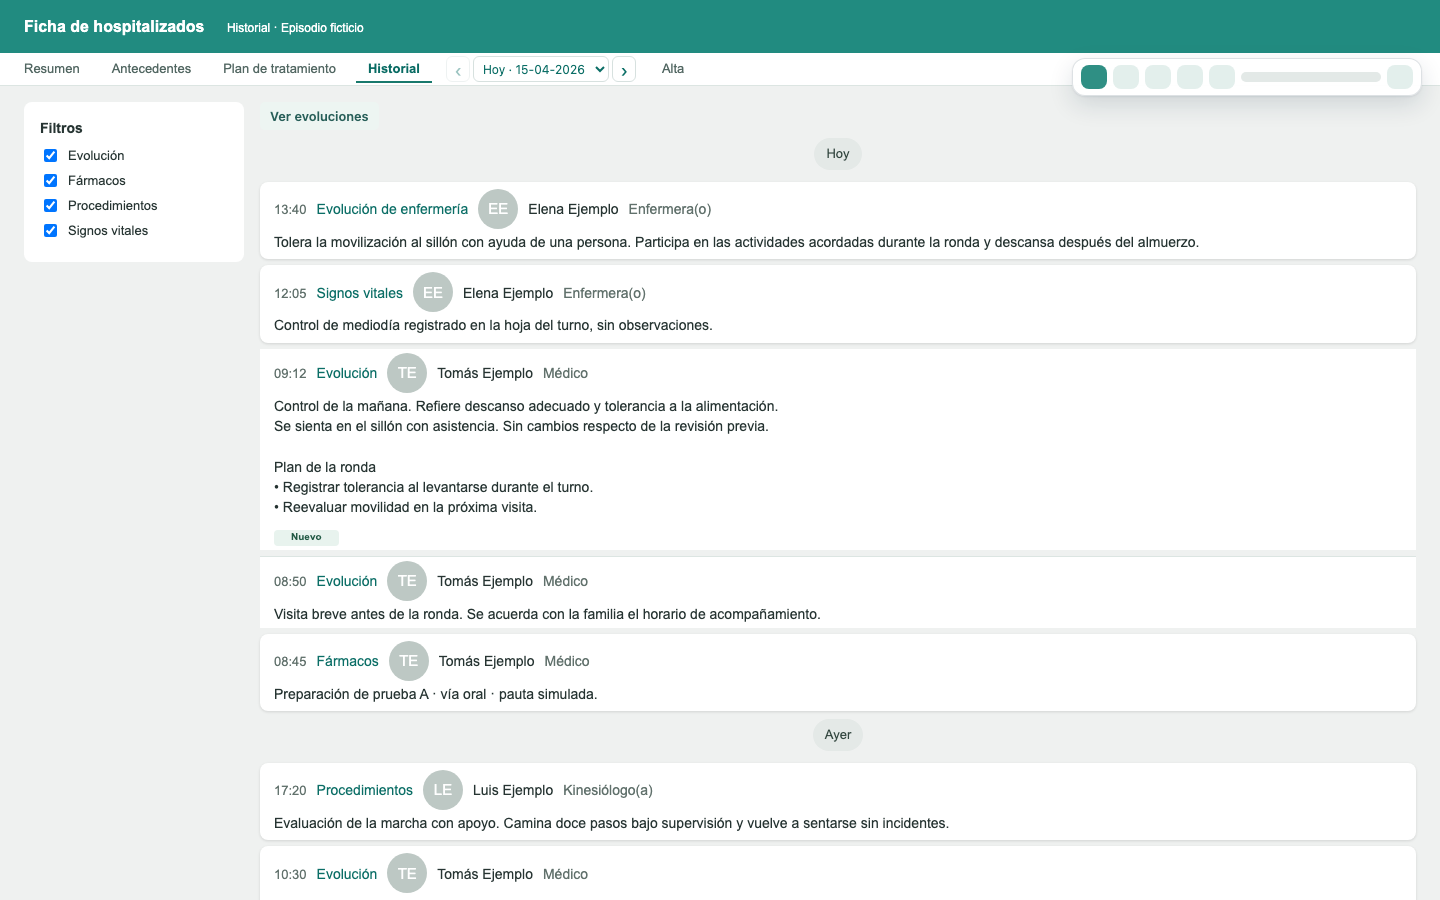
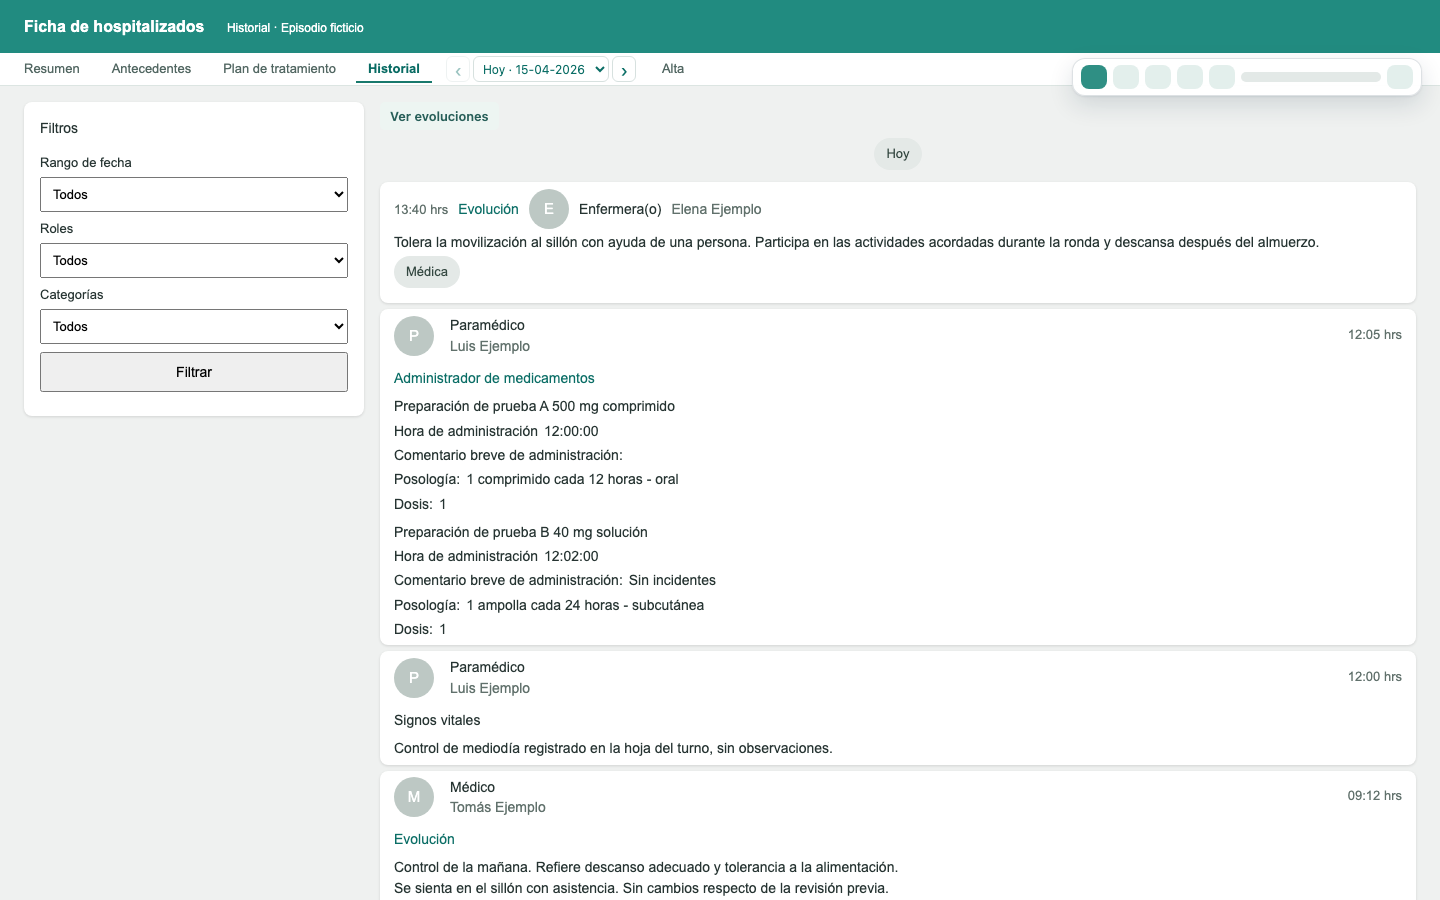
docs: compare the plan, the history and the daily row on real shapes
Before and after captures and measures for Plan de tratamiento, and
again for Historial and the Resumen with fixtures that follow the
structure seen in Eloísa. CI verifies the compact plan.

diff --git a/docs/estilo-ficha.md b/docs/estilo-ficha.md
@@ -1,6 +1,6 @@
 # Estilo y forma de trabajo en las vistas de la ficha
 
-Esta guía reúne las reglas con las que se rediseñaron el Resumen compacto y el Historial, para que la siguiente mejora empiece donde terminó la anterior.
+Esta guía reúne las reglas con las que se rediseñaron el Resumen compacto, el Historial y el Plan de tratamiento, para que la siguiente mejora empiece donde terminó la anterior. La forma de cada vista en la página real está en [`estructura-eloisa.md`](estructura-eloisa.md).
 
 ## Reglas de diseño
 
@@ -10,7 +10,7 @@ Esta guía reúne las reglas con las que se rediseñaron el Resumen compacto y e
 4. **El color tiene función.** Verde para lo que se puede pulsar, ámbar para una marca clínica, y el color que da Eloísa para un valor fuera de rango. La estructura usa grises.
 5. **Cuatro tamaños y dos pesos.** Meta (12 px), lectura (13 px), título (15 px) y título principal (16 px); normal y 600.
 6. **Un margen de lectura.** El título de una tarjeta, sus columnas y su primera celda empiezan en la misma línea (`--hhr-ficha-inset`).
-7. **Una acción es un icono de la familia y su nombre.** Sin sitio para el nombre queda el icono, con el nombre al pasar el cursor.
+7. **Una acción es un icono y su nombre, y el nombre es el de Eloísa.** Se lee del botón o de su icono; la extensión no inventa uno. Sin sitio para el nombre queda el icono, con el nombre al pasar el cursor. Un icono cuyo significado no consta, como los estados del Plan de tratamiento, conserva su dibujo y su color.
 8. **Lo que no se reconoce no se toca.** Una tarjeta, fila o botón con una forma distinta de la prevista conserva el aspecto de Eloísa.
 
 ## Dónde vive cada cosa
@@ -23,12 +23,15 @@ Esta guía reúne las reglas con las que se rediseñaron el Resumen compacto y e
 | [`hhr-ficha-evolution-authors.css`](../extension/hhr-ficha-evolution-authors.css) y [`.js`](../extension/hhr-ficha-evolution-authors.js) | Acciones de Evolución y filtro de evoluciones por profesional. |
 | [`hhr-ficha-reading-labels.css`](../extension/hhr-ficha-reading-labels.css) y [`.js`](../extension/hhr-ficha-reading-labels.js) | Firmas, campos de entrega y alerta, interruptores. |
 | [`hhr-ficha-history.css`](../extension/hhr-ficha-history.css) y [`hhr-history-date-navigation.js`](../extension/hhr-history-date-navigation.js) | Historial compacto y navegación por fechas. |
+| [`hhr-ficha-care-plan.css`](../extension/hhr-ficha-care-plan.css) y [`.js`](../extension/hhr-ficha-care-plan.js) | Tarjetas de programación de Plan de tratamiento. |
+
+Un lector nuevo sigue la forma de [`hhr-ficha-care-plan.js`](../extension/hhr-ficha-care-plan.js): `create()` devuelve `refresh(raíz)` y `clear()`, reconoce por estructura y texto nativo, lleva la cuenta de cada atributo que pone y lo retira cuando deja de aplicar. [`hhr-native-ficha-presentation.js`](../extension/hhr-native-ficha-presentation.js) lo crea y le pasa `main` solo en su pestaña y en la vista Compacta.
 
 Una regla nueva toma sus valores de los tokens. Una regla anterior, escrita con el color o el tamaño a mano, se pasa a tokens cuando se vuelve a editar; no hace falta una migración aparte.
 
 ## Cómo cambiar o añadir una vista
 
-1. **Ficha ficticia.** Cada vista tiene la suya en `scripts/*-visual-fixture.mjs`, con datos inventados y la estructura que el lector reconoce.
+1. **Ficha ficticia.** Cada vista tiene la suya en `scripts/*-visual-fixture.mjs`, con datos inventados y la estructura descrita en [`estructura-eloisa.md`](estructura-eloisa.md). Una ficha ficticia hecha de memoria ya ocultó tres fallos: se escribe a partir de la estructura observada.
 2. **Captura con el arnés común.** [`scripts/ficha-capture-harness.mjs`](../scripts/ficha-capture-harness.mjs) monta la ficha con los estilos y lectores que declara el manifiesto de una revisión o del árbol de trabajo. Así el «antes» y el «después» usan la misma página.
 3. **Comprobaciones como invariantes.** Lo que promete el diseño se mide en la página: alineaciones, orden de lectura, foco de teclado, que nada tape un control. Un fallo se explica con una frase, no con una diferencia de píxeles.
 4. **Prueba unitaria de marcas y limpieza.** Cada atributo que el lector pone debe retirarse al cambiar de vista, de episodio o de pestaña, y no reescribirse en un refresco idéntico.
@@ -39,6 +42,7 @@ Una regla nueva toma sus valores de los tokens. Una regla anterior, escrita con 
 node scripts/capture-medical-round.mjs WORKTREE /tmp/resumen lectura
 node scripts/capture-medical-round.mjs WORKTREE /tmp/ingreso ingreso
 node scripts/capture-history.mjs WORKTREE /tmp/historial
+node scripts/capture-care-plan.mjs WORKTREE /tmp/plan
 ```
 
 ## Calibrar con la página real
@@ -49,6 +53,6 @@ Las fichas ficticias reproducen lo que se sabe de Eloísa. Para una pantalla de 
 2. F12 → Consola. Pegar el archivo completo y pulsar Enter. Chrome puede pedir escribir `allow pasting` la primera vez.
 3. La estructura queda en el portapapeles. Revisarla antes de compartirla.
 
-El exportador conserva etiquetas, clases de componentes, roles, estados y las palabras de interfaz de una lista cerrada. Enmascara cualquier otra palabra como `xxxx` y todos los dígitos como `0`, en textos y en atributos, y nunca lee el valor de un campo. Una prueba lo verifica con nombres, RUN, dosis y texto libre inventados.
+El exportador conserva etiquetas, clases de componentes, roles, estados y las palabras de interfaz de una lista cerrada. Enmascara cualquier otra palabra como `xxxx` y todos los dígitos como `0`, en textos y en atributos, y nunca lee el valor de un campo. Un identificador o un tramo de la ruta conserva sus letras solo si cada palabra suya está en una segunda lista cerrada, la de palabras de programador, o si nombra un icono. Una prueba lo verifica con nombres, RUN, dosis y texto libre inventados, también dentro de identificadores, clases, estados y la ruta.
 
-Con esa estructura se escribe la ficha ficticia de la vista, y a partir de ahí se sigue el procedimiento anterior.
+Con esa estructura se actualiza [`estructura-eloisa.md`](estructura-eloisa.md) en prosa, sin copiar la exportación al repositorio, se escribe la ficha ficticia de la vista, y a partir de ahí se sigue el procedimiento anterior.

diff --git a/docs/visual/historial/README.md b/docs/visual/historial/README.md
@@ -2,7 +2,7 @@
 
 ## Línea de tiempo en 0.48.192
 
-La comparación usa el mismo Historial ficticio en Chromium: tres días, diez eventos, dos evoluciones consecutivas, una evolución de enfermería y un evento marcado «Nuevo». El reloj de la prueba está fijo en el 15-04-2026 de `Pacific/Easter`, de modo que «Hoy» y «Ayer» siempre dan las mismas fechas.
+La comparación usa el mismo Historial ficticio en Chromium, escrito con la forma que se observó en Eloísa ([estructura](../../estructura-eloisa.md#historial)): tres días y once eventos repartidos en diez cajas, la hora como «hh:mm hrs», las dos formas de contenido, una administración de dos fármacos con sus detalles rotulados y dos eventos marcados «Nuevo». El reloj de la prueba está fijo en el 15-04-2026 de `Pacific/Easter`, de modo que «Hoy» y «Ayer» siempre dan las mismas fechas.
 
 | Pantalla | 0.48.191 | 0.48.192 | Evoluciones por profesional |
 | --- | --- | --- | --- |
@@ -11,17 +11,20 @@ La comparación usa el mismo Historial ficticio en Chromium: tres días, diez ev
 
 | Medida, 0.48.191 → 0.48.192 | 1280 × 800 | 1440 × 900 |
 | --- | ---: | ---: |
-| Eventos completos en la primera pantalla | 5 → 8 | 6 → 10 |
+| Eventos completos en la primera pantalla, de 11 | 3 → 6 | 3 → 8 |
 | Inicio del primer evento | 182 → 161 px | 182 → 161 px |
-| Final del décimo evento | 1281 → 882 px | 1281 → 882 px |
+| Final del último evento | 2109 → 1175 px | 2088 → 1137 px |
+| Ancho de los filtros | 300 → 272 px | 340 → 272 px |
 
-Cada día es una superficie. Su cabecera muestra la fecha junto a «Hoy» y «Ayer» y permanece bajo las pestañas mientras se desplazan sus eventos. Cada evento ocupa una línea con la hora al margen, la categoría, el profesional y el cargo; el texto empieza alineado bajo la categoría. Las evoluciones médicas y de enfermería llevan un filete lateral. Las iniciales del avatar, que repetían el nombre, no se muestran; un avatar con imagen o icono se conserva al tamaño del texto. «Nuevo» cierra la primera línea de su evento.
+Eloísa da a casi cada evento una caja propia y pone la fecha solo en la primera caja de un día. El lector reconoce dónde empieza y termina cada día, y sus cajas se leen como una superficie: la cabecera muestra la fecha junto a «Hoy» y «Ayer», las cajas del día se tocan y el día siguiente empieza 8 px más abajo. El selector de fechas junto a las pestañas mantiene el día a la vista durante el recorrido.
+
+Cada evento ocupa una línea con la hora al margen, la categoría, el cargo y el profesional; el texto empieza alineado bajo la categoría. Las evoluciones médicas y de enfermería llevan un filete lateral. Los detalles rotulados de una administración («Posología», «Dosis») siguen en la línea de su fármaco y un rótulo sin valor no se muestra. Las iniciales del avatar, que repetían el cargo, no se muestran; un avatar con imagen o icono se conserva al tamaño del texto. «Nuevo» cierra la primera línea de su evento.
 
 Una tarjeta que el lector no reconoce, por ejemplo sin hora legible o con un botón en su cabecera, conserva la disposición de Eloísa (avatar, nombre, cargo, hora y controles) dentro de la superficie de su día. Fuera de la vista Compacta el Historial no cambia.
 
 ### Verificación con teclado
 
-Enter sobre «Ver evoluciones» reúne las cinco evoluciones y lleva el foco a «Todos». Enter sobre un profesional deja solo sus notas y «Historial completo» devuelve los diez eventos.
+Enter sobre «Ver evoluciones» reúne las cinco evoluciones y lleva el foco a «Todos». Cada día conserva su fecha mientras alguna de sus cajas tenga una evolución a la vista. Enter sobre un profesional deja solo sus notas y «Historial completo» devuelve los once eventos.
 
 ```sh
 node scripts/capture-history.mjs v0.48.191 /tmp/historial-anterior

diff --git a/docs/visual/plan-tratamiento/README.md b/docs/visual/plan-tratamiento/README.md
@@ -1,0 +1,36 @@
+# Plan de tratamiento compacto
+
+## Tarjetas de programación en 0.48.192
+
+La comparación usa el mismo Plan de tratamiento ficticio en Chromium, escrito con la forma que se observó en Eloísa ([estructura](../../estructura-eloisa.md#plan-de-tratamiento)): cuatro tarjetas de programación, diez indicaciones, siete horas por página y una tarjeta sin plan.
+
+| Pantalla | 0.48.191 | 0.48.192 |
+| --- | --- | --- |
+| 1280 × 800 | [Antes](0.48.192/antes/1280-plan.png) | [Después](0.48.192/despues/1280-plan.png) |
+| 1440 × 900 | [Antes](0.48.192/antes/1440-plan.png) | [Después](0.48.192/despues/1440-plan.png) |
+
+| Medida, 0.48.191 → 0.48.192 | 1000 × 800 | 1280 × 800 | 1440 × 900 | 1920 × 1080 |
+| --- | ---: | ---: | ---: | ---: |
+| Indicaciones completas en la primera pantalla, de 10 | 2 → 5 | 2 → 6 | 2 → 10 | 4 → 10 |
+| Tarjetas con su título en la primera pantalla, de 4 | 2 → 3 | 2 → 3 | 2 → 4 | 2 → 4 |
+| Final de la última tarjeta | 2416 → 1218 px | 2416 → 1096 px | 2286 → 898 px | 2205 → 898 px |
+
+Cada tarjeta pone en una línea su título, su interruptor y sus herramientas. Las herramientas muestran el nombre que Eloísa les da en su icono, «Planificación estandar» y «Planificación única», cuando la tarjeta mide al menos 992 px; en una tarjeta más estrecha quedan los iconos y el nombre aparece al pasar el cursor. Cada indicación ocupa una fila tan alta como su texto: el nombre en negrita, la posología debajo en el tamaño pequeño, y «SOS» o «Externo» como etiquetas. El pie vacío de la tabla no ocupa una fila.
+
+Lo que no cambia:
+
+- **Las horas.** Cada hora conserva el ancho que le da Eloísa y cada marca queda bajo su hora. La prueba mide el centro de cada marca contra el de su rótulo.
+- **Los iconos de estado.** Conservan su dibujo y su color. La extensión no les da nombre ni color propios: su significado es de Eloísa.
+- **El encabezado fijo** de cada tabla, «Ir a Hoy» y las flechas de página.
+- **Una tarjeta con otra forma.** Si la primera columna no es «Indicación», la tarjeta conserva el aspecto de Eloísa. Si entre la cabecera y la tabla hay algo más que botones de icono, las herramientas conservan su fila.
+
+### Verificación con teclado
+
+Desde el interruptor de una tarjeta, Tab recorre «Planificación estandar», «Planificación única», el menú de opciones e «Ir a Hoy», en el orden en que se ven.
+
+```sh
+node scripts/capture-care-plan.mjs v0.48.191 /tmp/plan-anterior
+node scripts/capture-care-plan.mjs WORKTREE /tmp/plan-actual
+```
+
+Estas medidas corresponden a una reconstrucción local. La ficha ficticia supone que la columna de horas mide 1000 px, como se midió en una ventana de 1990 px; no se ha comprobado qué ancho le da Eloísa en una ventana de 1280 px. El número de indicaciones y la longitud de sus nombres cambian las cifras.

diff --git a/docs/visual/resumen-escritorio/README.md b/docs/visual/resumen-escritorio/README.md
@@ -1,5 +1,24 @@
 # Resumen compacto en escritorio
 
+## La fila diaria y las acciones de la nota como las dibuja Eloísa en 0.48.192
+
+La ficha ficticia se corrigió con la [estructura observada en Eloísa](../../estructura-eloisa.md#resumen). Dos formas eran distintas de las supuestas, y por eso dos cambios anteriores no llegaban a la página real:
+
+- **La fila diaria** es un campo de fecha con rótulo flotante, un botón de calendario, «Imprimir» y un segundo botón de impresión; no un selector de fecha nativo con un botón. La 0.48.191 no la reconocía: ni la acoplaba a la línea de secciones ni omitía su firma repetida. Desde esta versión la reconoce por su formulario «Resumen diario paciente».
+- **Los botones de Evolución** no tienen nombre propio; lo lleva su icono, y el lápiz se llama «Enmendar». La 0.48.189 lo rotulaba «Editar» y a su lista «Enmiendas». Ahora se leen «Enmendar» y «Enmendados», las palabras de Eloísa.
+
+| Pantalla | 0.48.191 | 0.48.192 | Detalle |
+| --- | --- | --- | --- |
+| 1280 × 800 | [Antes](0.48.192/antes/1280-ingreso.png) | [Después](0.48.192/despues/1280-ingreso.png) | [Con la barra flotante plegada](0.48.192/despues/1280-barra-plegada.png) |
+| 1440 × 900 | [Antes](0.48.192/antes/1440-ingreso.png) | [Después](0.48.192/despues/1440-ingreso.png) | |
+
+| Medida en px, 0.48.191 → 0.48.192 | 1280 × 800 | 1280 × 800, barra plegada | 1440 × 900 |
+| --- | ---: | ---: | ---: |
+| Inicio de Evolución | 175 → 165 | 175 → 129 | 175 → 165 |
+| Inicio de Fármacos | 604 → 594 | 604 → 558 | 623 → 613 |
+
+Con su forma real la fila es más ancha que la supuesta. Cabe en la línea de secciones con la barra flotante de Centro HHR plegada; con la barra desplegada conserva su fila a 1280 y a 1440 px, diez píxeles más baja que antes. Las cifras de la sección siguiente se midieron con la fila supuesta: su «a 1440 px caben» no vale para la fila real.
+
 ## Cada dato una vez y la fecha en la línea de secciones en 0.48.191
 
 La ficha ficticia incluye desde esta versión un doble de la barra flotante de Centro HHR, en el lugar y con el tamaño que le da la extensión: 5 px bajo la cabecera, a 18 px del borde derecho, 250 px de ancho hasta 1280 px y 350 px por encima. Las capturas anteriores no la mostraban.

diff --git a/README.md b/README.md
@@ -16,7 +16,9 @@ En la columna derecha, «Agregar», junto al título de Observaciones de entrega
 
 En **Centro HHR → Ajustes → Vista de la ficha clínica** se elige entre Eloísa original (Desactivado), Compacto (Modo 1, predeterminado), Equilibrado (Modo 2, presentación de la 0.48.179) y Lectura (Modo 3, valores mayores y más interlineado). Chrome recuerda la elección en ese perfil y la aplica a sus pestañas de Eloísa. La densidad del cuadro Centro HHR se ajusta por separado. [Comparar los cuatro modos en la misma ficha de prueba](docs/visual/temas/README.md)
 
-En **Compacto**, el Historial se lee como una línea de tiempo: una superficie por día, la hora de cada evento en una columna al margen y un filete lateral en las evoluciones. [Ver el Historial compacto](docs/visual/historial/README.md) · [Guía de estilo y de trabajo de las vistas de la ficha](docs/estilo-ficha.md)
+En **Compacto**, el Historial se lee como una línea de tiempo: una superficie por día, la hora de cada evento en una columna al margen y un filete lateral en las evoluciones. [Ver el Historial compacto](docs/visual/historial/README.md)
+
+En **Compacto**, cada tarjeta de Plan de tratamiento reúne en una línea su título, su interruptor y sus herramientas con nombre, y cada indicación ocupa una fila tan alta como su texto. Las horas y los iconos de estado conservan el ancho, el dibujo y el color de Eloísa. [Ver el Plan de tratamiento compacto](docs/visual/plan-tratamiento/README.md) · [Guía de estilo y de trabajo de las vistas de la ficha](docs/estilo-ficha.md) · [Estructura observada en Eloísa](docs/estructura-eloisa.md)
 
 En **Compacto**, la nota aparece primero en una pantalla angosta. La fecha estimada de alta se oculta en esta vista. «Ver evoluciones» abre las notas cargadas del episodio en el Historial y permite elegir «Todos» o un profesional. La última actualización muestra fecha, hora al minuto y nombre. «Agregar a entrega» y «Agregar alerta» identifican el destino al escribir. «No reanimación» ocupa su propia línea y muestra el estado del interruptor. El reloj de Signos vitales, rotulado «Historial» en escritorio, abre el historial de mediciones.
 

diff --git a/CHANGELOG.md b/CHANGELOG.md
@@ -2,9 +2,11 @@
 
 ## 0.48.192
 
-- En la vista Compacta, el Historial se lee como una línea de tiempo: una superficie por día, una línea por evento y la hora en una columna al margen. «Hoy» y «Ayer» muestran su fecha y el día permanece a la vista al desplazar sus eventos. Las evoluciones médicas y de enfermería llevan el mismo filete lateral que Evolución en el Resumen.
-- Cada evento muestra categoría, profesional y cargo en una línea. Las iniciales que repetían el nombre dejan de mostrarse y «Nuevo» cierra la primera línea de su evento. «Ver evoluciones» y el filtro por profesional usan los botones de las acciones de la nota.
-- Los colores, tamaños, márgenes e iconos de las vistas de la ficha se definen en un solo archivo. El Resumen no cambia de aspecto.
+- En la vista Compacta, el Historial se lee como una línea de tiempo: una superficie por día, una línea por evento y la hora en una columna al margen. «Hoy» y «Ayer» muestran su fecha. Las evoluciones médicas y de enfermería llevan el mismo filete lateral que Evolución en el Resumen.
+- Cada evento muestra categoría, cargo y profesional en una línea. Los detalles de una administración de medicamentos siguen en la línea de su fármaco. Las iniciales que repetían el cargo dejan de mostrarse y «Nuevo» cierra la primera línea de su evento. «Ver evoluciones» reúne todas las evoluciones del episodio y cada día conserva su fecha.
+- En la vista Compacta, cada tarjeta de Plan de tratamiento pone en una línea su título, su interruptor y sus herramientas, que muestran su nombre: «Planificación estandar» y «Planificación única». Cada indicación ocupa una fila tan alta como su texto. Las horas y los iconos de estado no cambian.
+- En el Resumen, las acciones de la nota usan los nombres de Eloísa: «Enmendar» y «Enmendados», en lugar de «Editar» y «Enmiendas». La fecha del resumen diario e «Imprimir» se reconocen con la forma que tienen en Eloísa: pasan a la línea de secciones cuando caben y su firma se omite cuando repite la de Evolución.
+- Los colores, tamaños, márgenes e iconos de las vistas de la ficha se definen en un solo archivo.
 
 ## 0.48.191
 

diff --git a/docs/estructura-eloisa.md b/docs/estructura-eloisa.md
@@ -88,6 +88,12 @@ Cada tarjeta:
   - Sin registros: una fila con `td[colspan=3] > p` «No se registra un plan de tratamiento.».
   - `tfoot` con tres celdas vacías.
 
+Pendiente de confirmar en la página real:
+
+- **Qué significa cada icono de estado.** Hasta saberlo, la vista Compacta no les da nombre ni color.
+- **Cómo fija Eloísa el ancho de la columna de horas** y cuánto mide en una ventana de 1280 px. La ficha ficticia supone 1000 px fijos.
+- **Cuándo se pliega el `.MuiCollapse-root`** de las herramientas.
+
 ## Historial
 
 `main > … > div.MuiGrid-container` con dos ítems:
@@ -109,3 +115,4 @@ Cada evento es un `div.MuiCard-root`:
 - El Historial ficticio agrupaba todas las tarjetas de un día en una caja y escribía la hora sin «hrs».
 - El Resumen ficticio usaba `input[type=date]` y un solo botón en la fila diaria, y daba `aria-label` a los botones de Evolución.
 - El lápiz de Evolución es «Enmendar», no «Editar».
+- No había ficha ficticia de Plan de tratamiento. La de `scripts/care-plan-visual-fixture.mjs` se escribió desde esta descripción.
